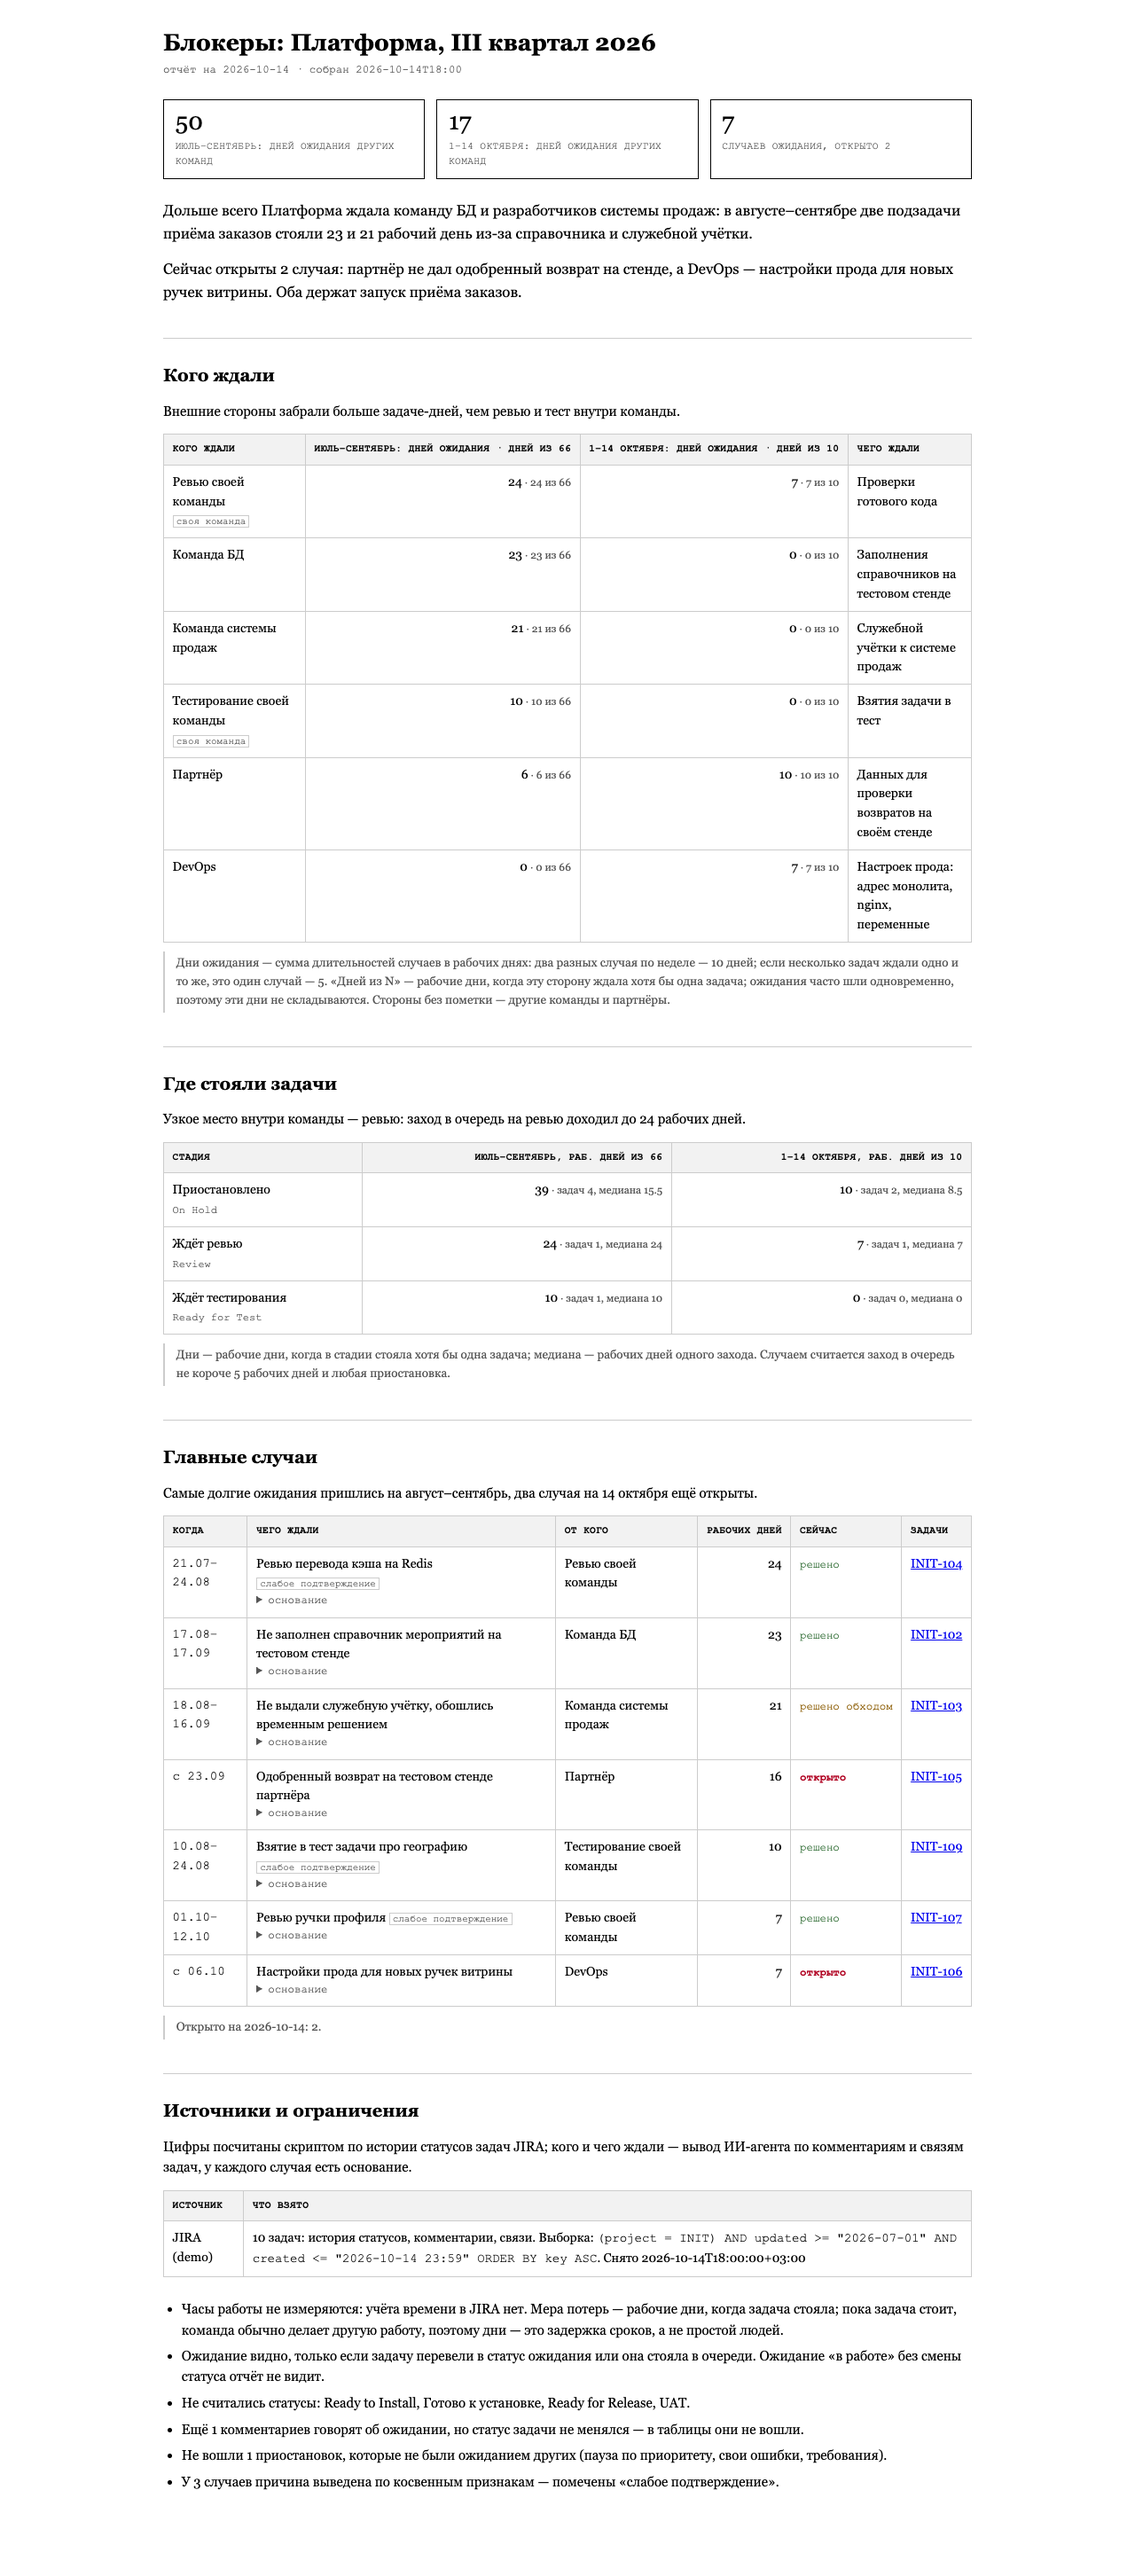
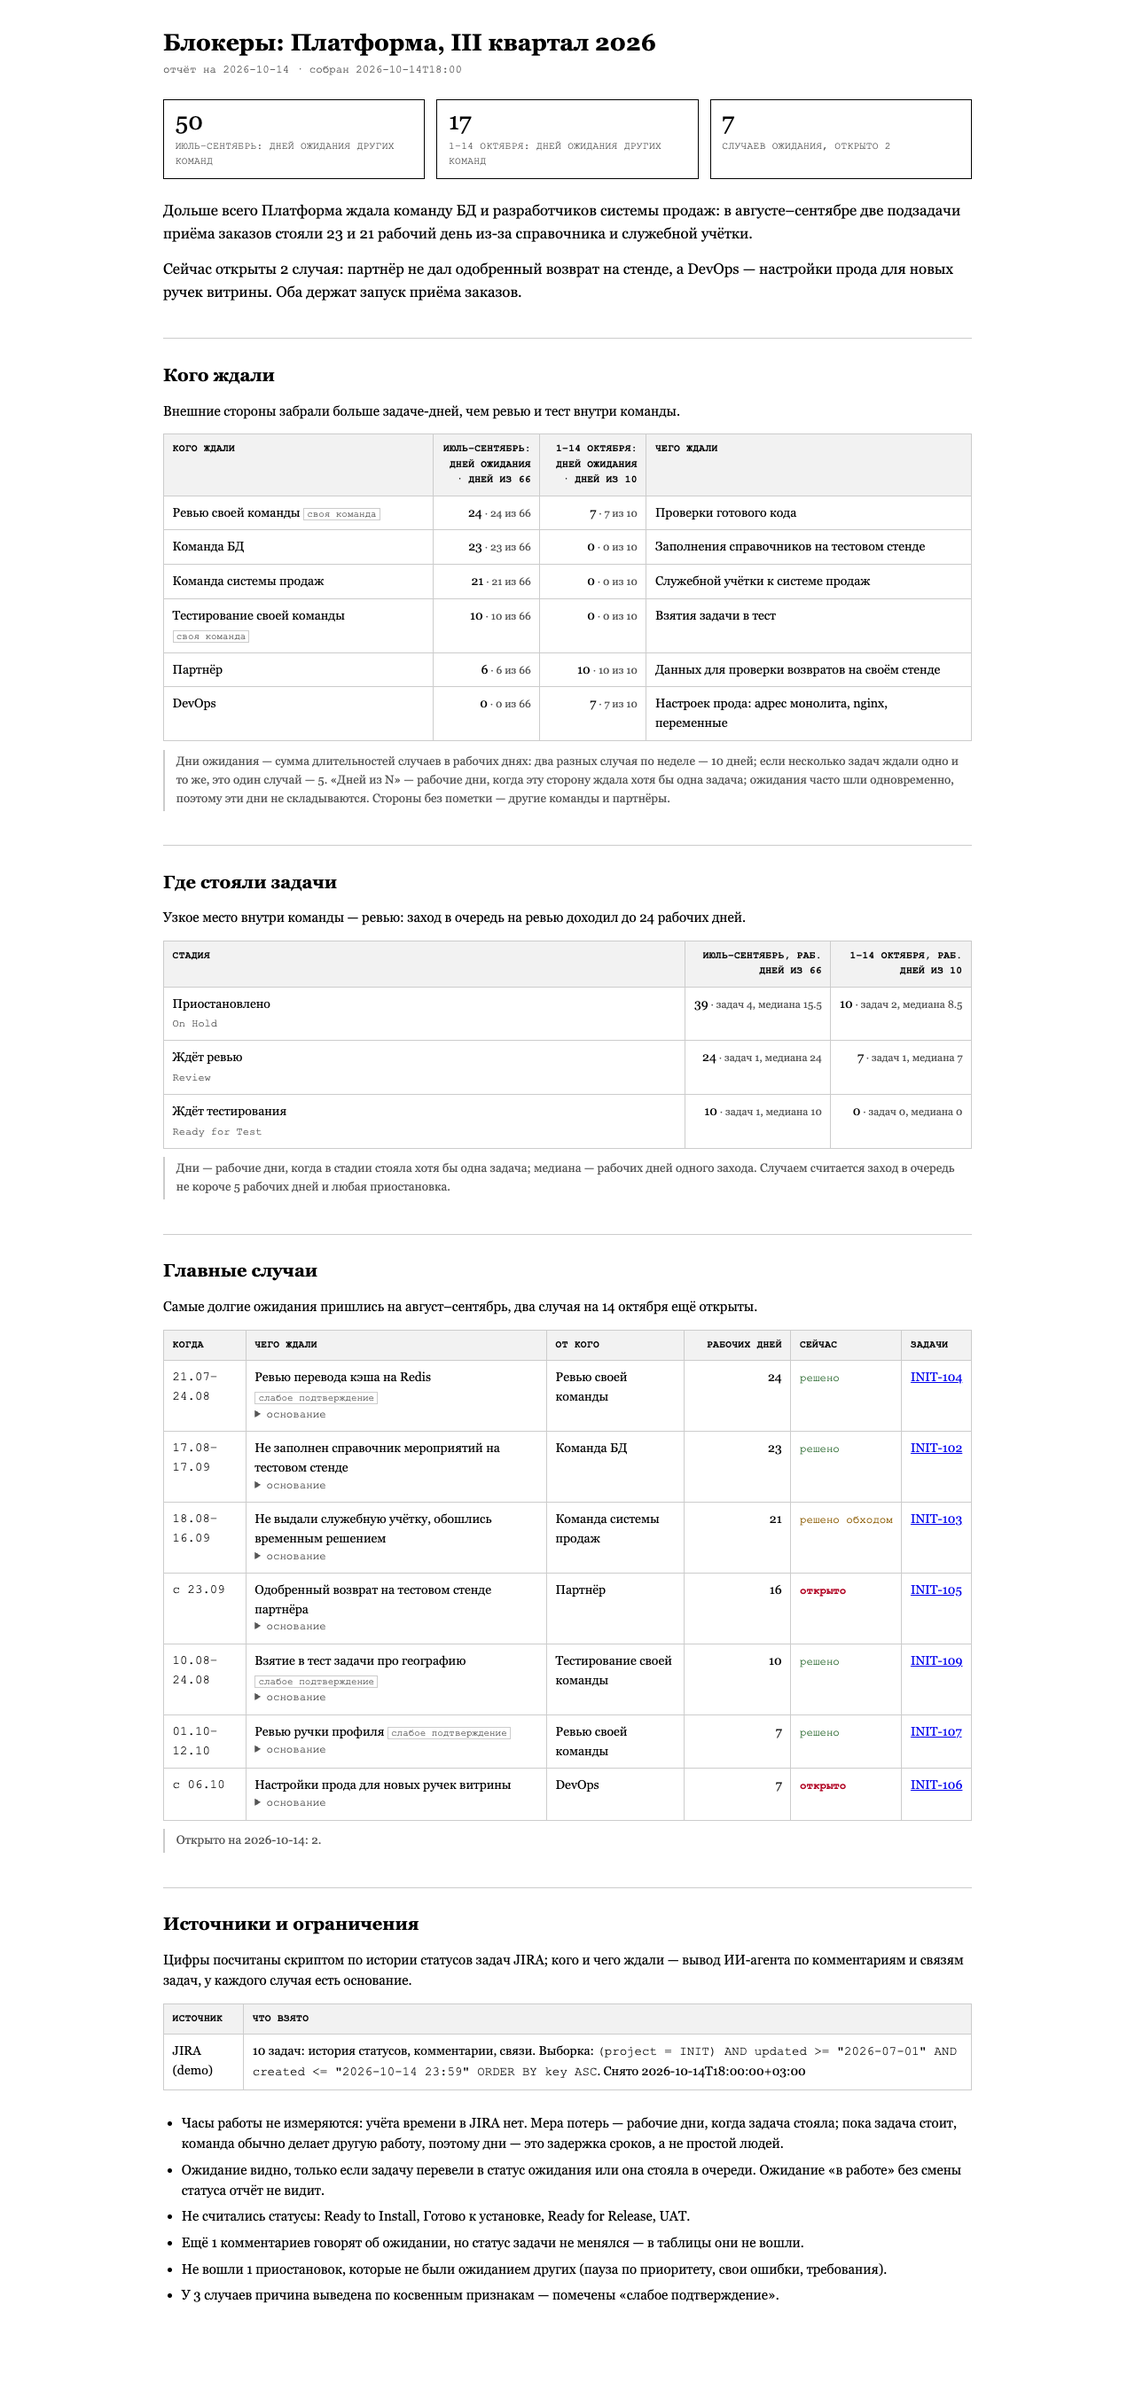
style(sprint-blockers): числовые столбцы по ширине содержимого — место тексту «чего ждали»

diff --git a/.claude/skills/sprint-blockers/resources/blockers_template.html b/.claude/skills/sprint-blockers/resources/blockers_template.html
@@ -33,6 +33,8 @@ table{ border-collapse:collapse; width:100%; margin:0 0 .6rem; font-size:.88rem;
 th, td{ border:1px solid var(--line-soft); padding:.5rem .6rem; text-align:left; vertical-align:top; }
 th{ background:var(--mark); font-family:"Courier New", monospace; font-size:.7rem; text-transform:uppercase; letter-spacing:.03em; }
 td.num, th.num{ text-align:right; white-space:nowrap; }
+/* числа — по ширине содержимого, остальное место — тексту «чего ждали» */
+td.num{ width:1%; } th.num{ white-space:normal; min-width:7.5rem; }
 td small{ color:var(--muted); font-size:.75rem; }
 .table-wrap{ overflow-x:auto; }
 .note{ font-size:.84rem; color:var(--muted); border-left:2px solid var(--line-soft); padding:.2rem .8rem; }
